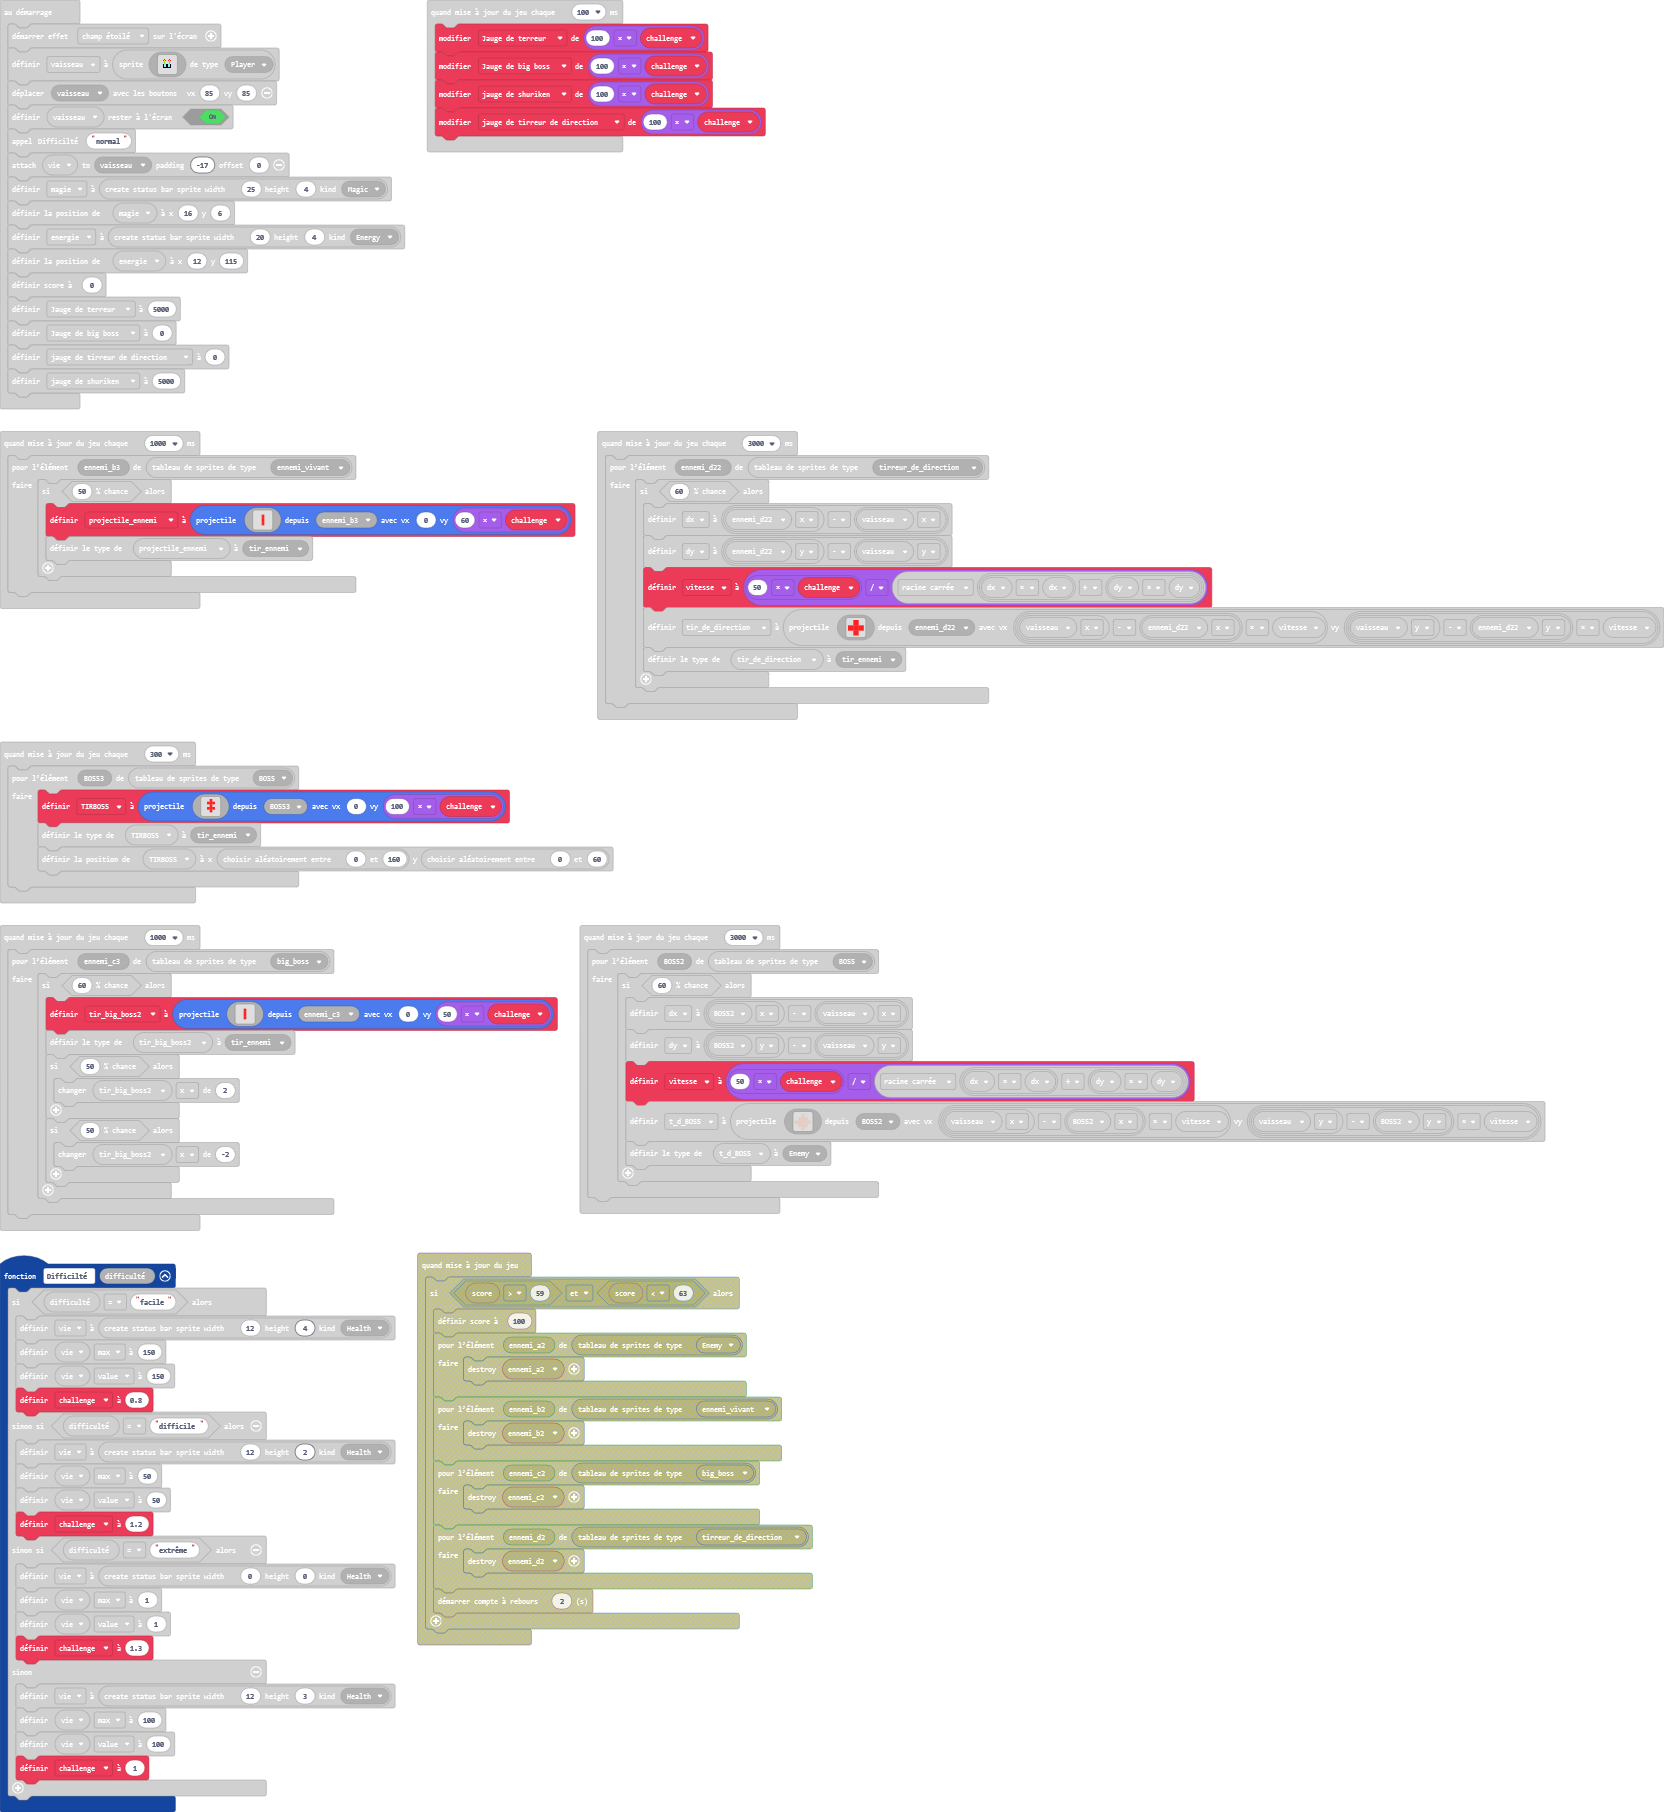
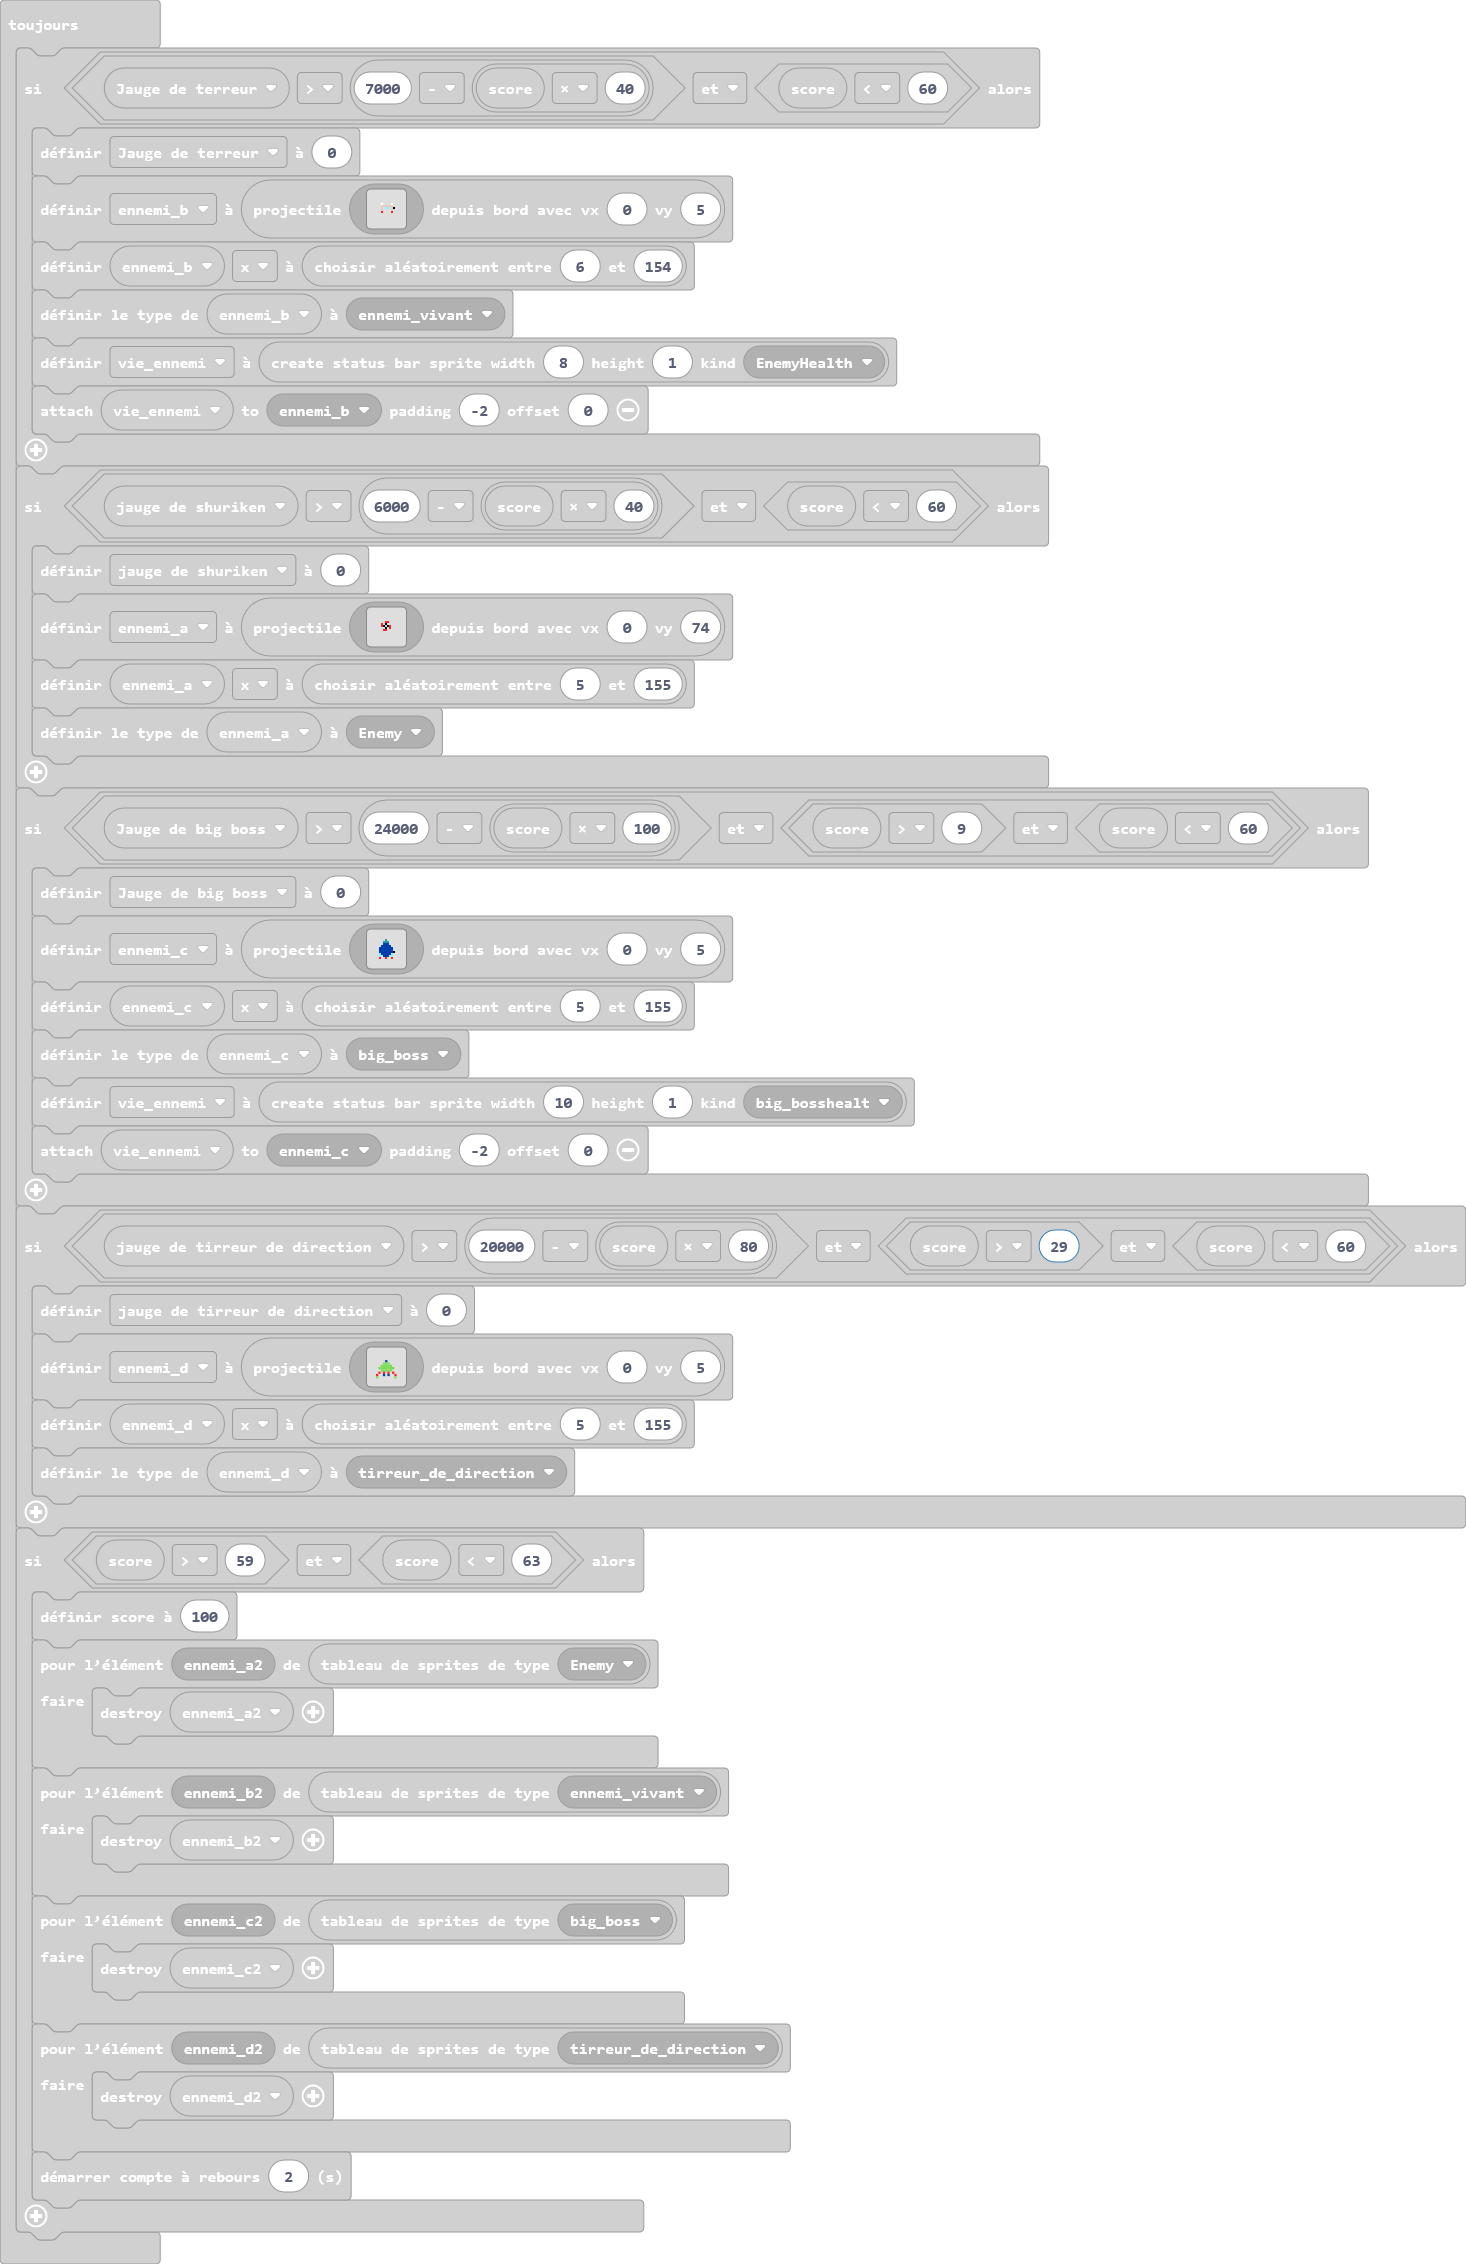
Mise à jour main.blocks, main.ts

diff --git a/main.ts b/main.ts
@@ -357,7 +357,7 @@ forever(function () {
         vie_ennemi = statusbars.create(10, 1, StatusBarKind.big_bosshealt)
         vie_ennemi.attachToSprite(ennemi_c, -2, 0)
     }
-    if (jauge_de_tirreur_de_direction > 20000 - info.score() * 80 && (info.score() > 30 && info.score() < 60)) {
+    if (jauge_de_tirreur_de_direction > 20000 - info.score() * 80 && (info.score() > 29 && info.score() < 60)) {
         jauge_de_tirreur_de_direction = 0
         ennemi_d = sprites.createProjectileFromSide(assets.image`a`, 0, 5)
         ennemi_d.x = randint(5, 155)
